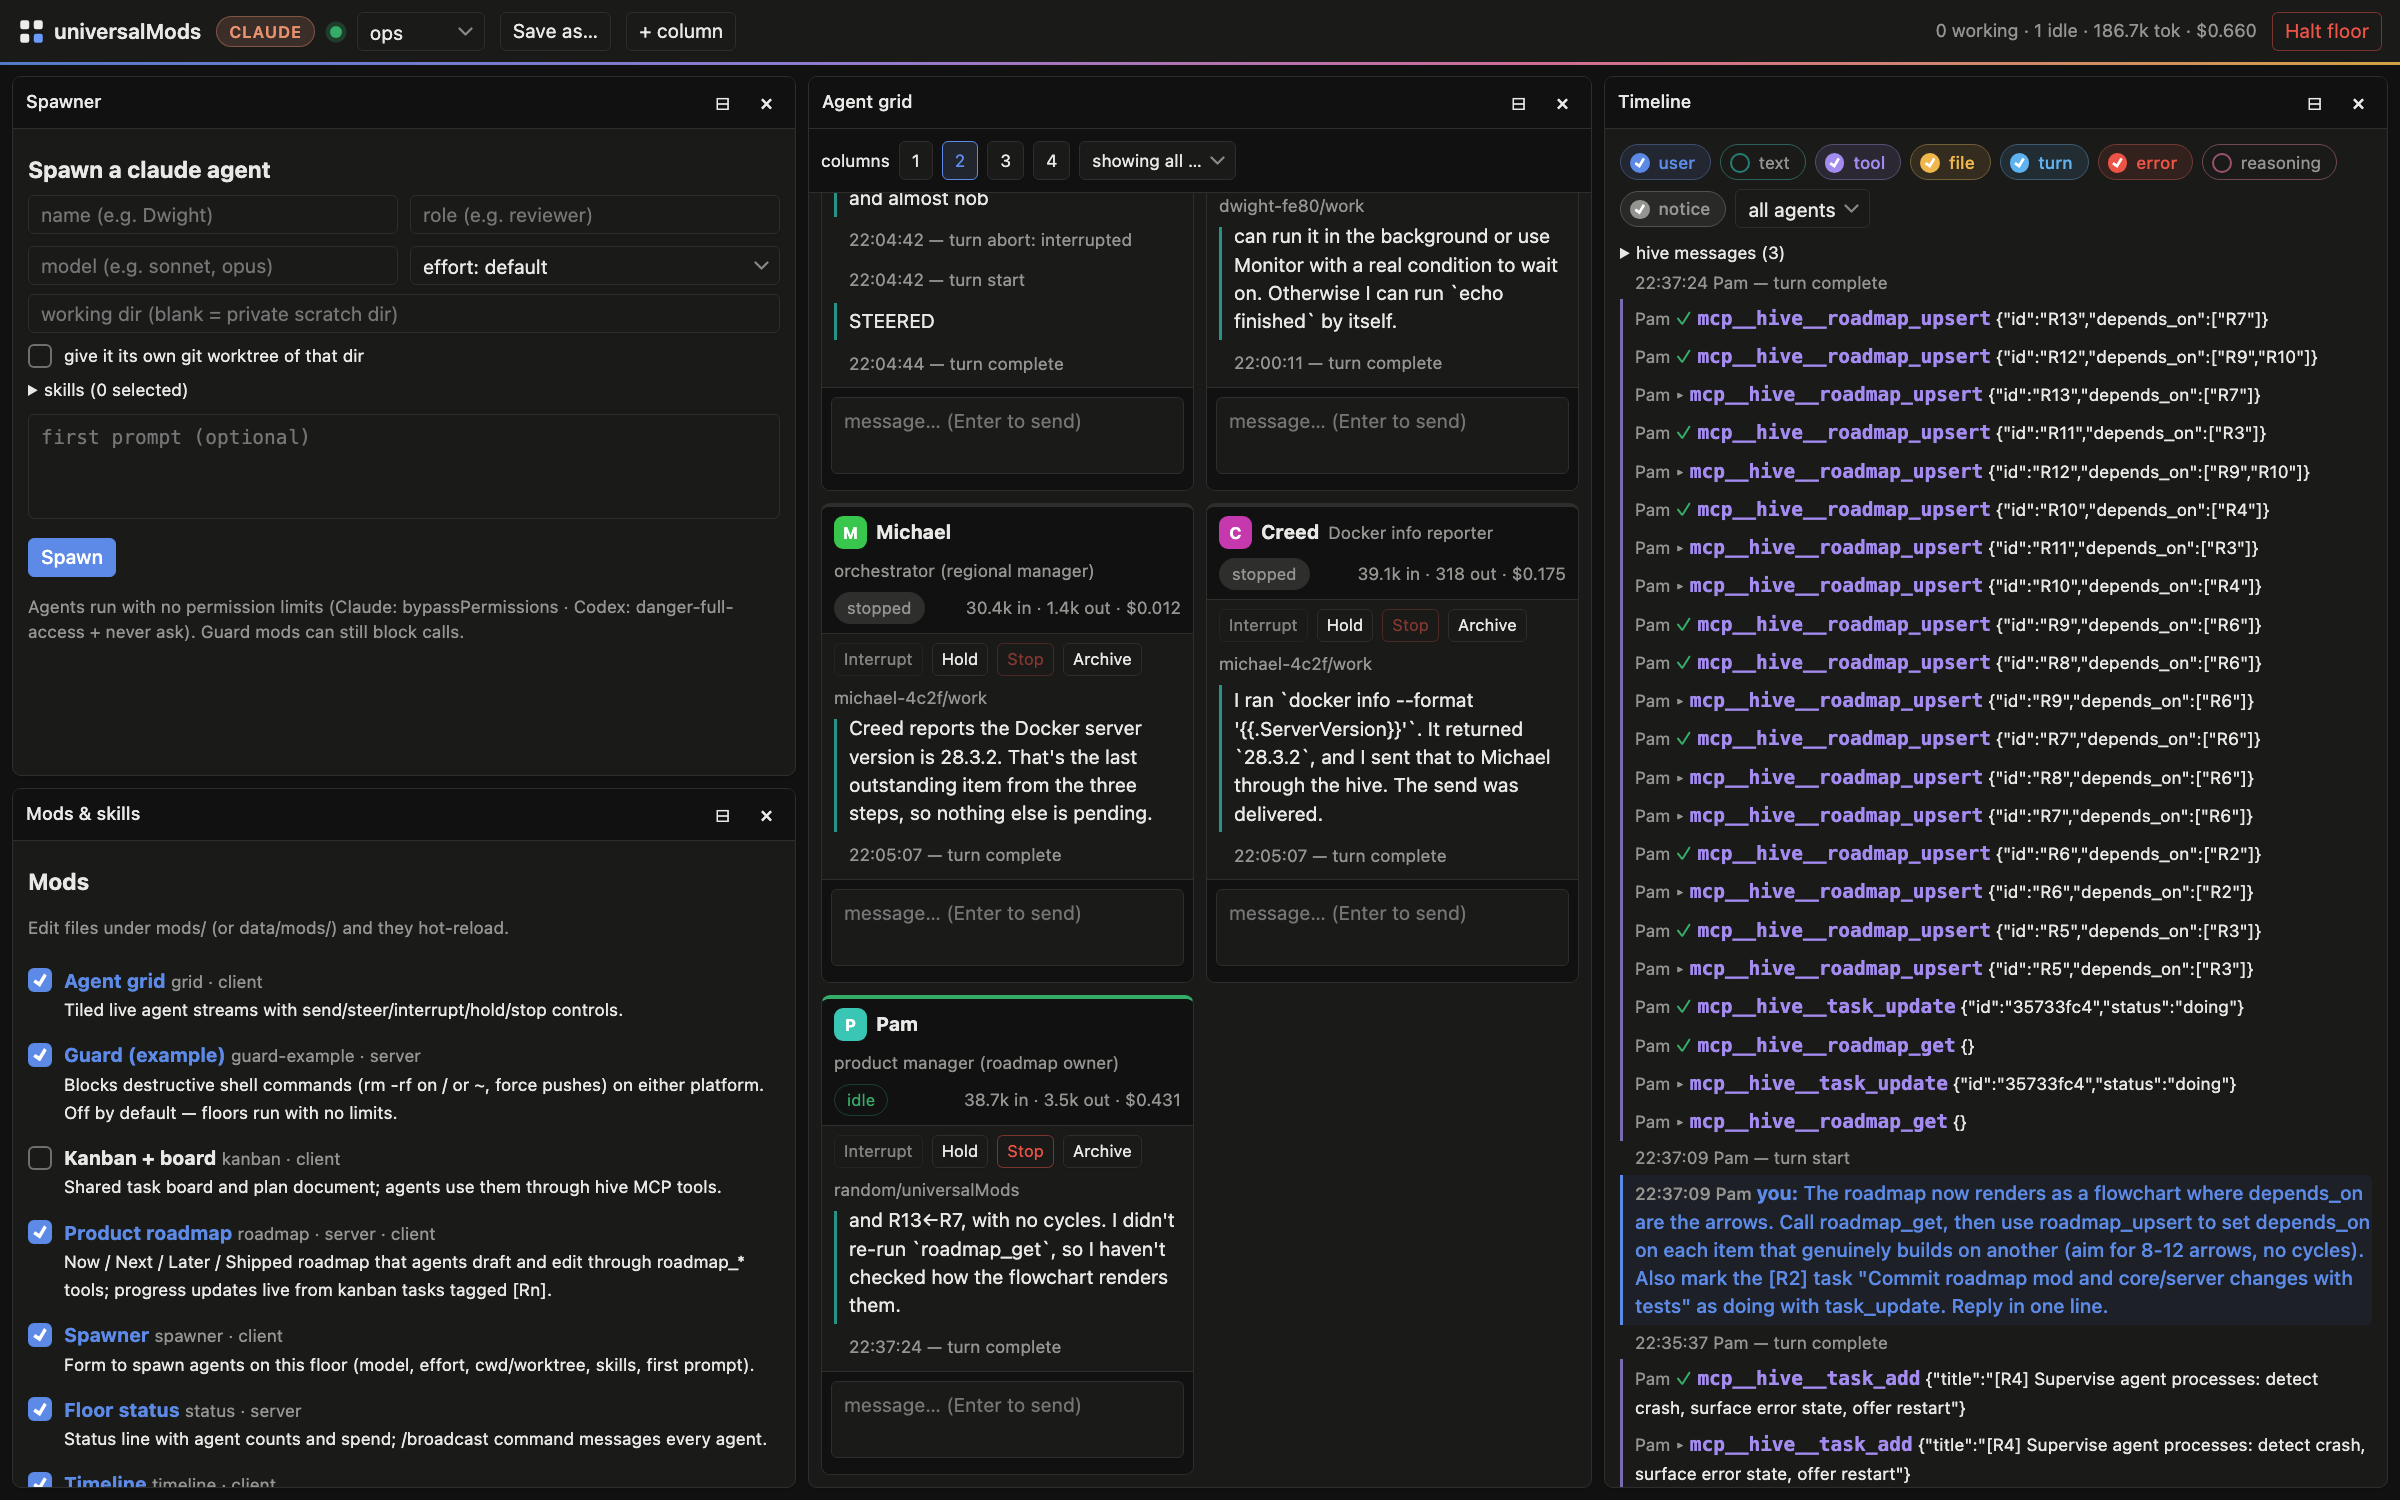
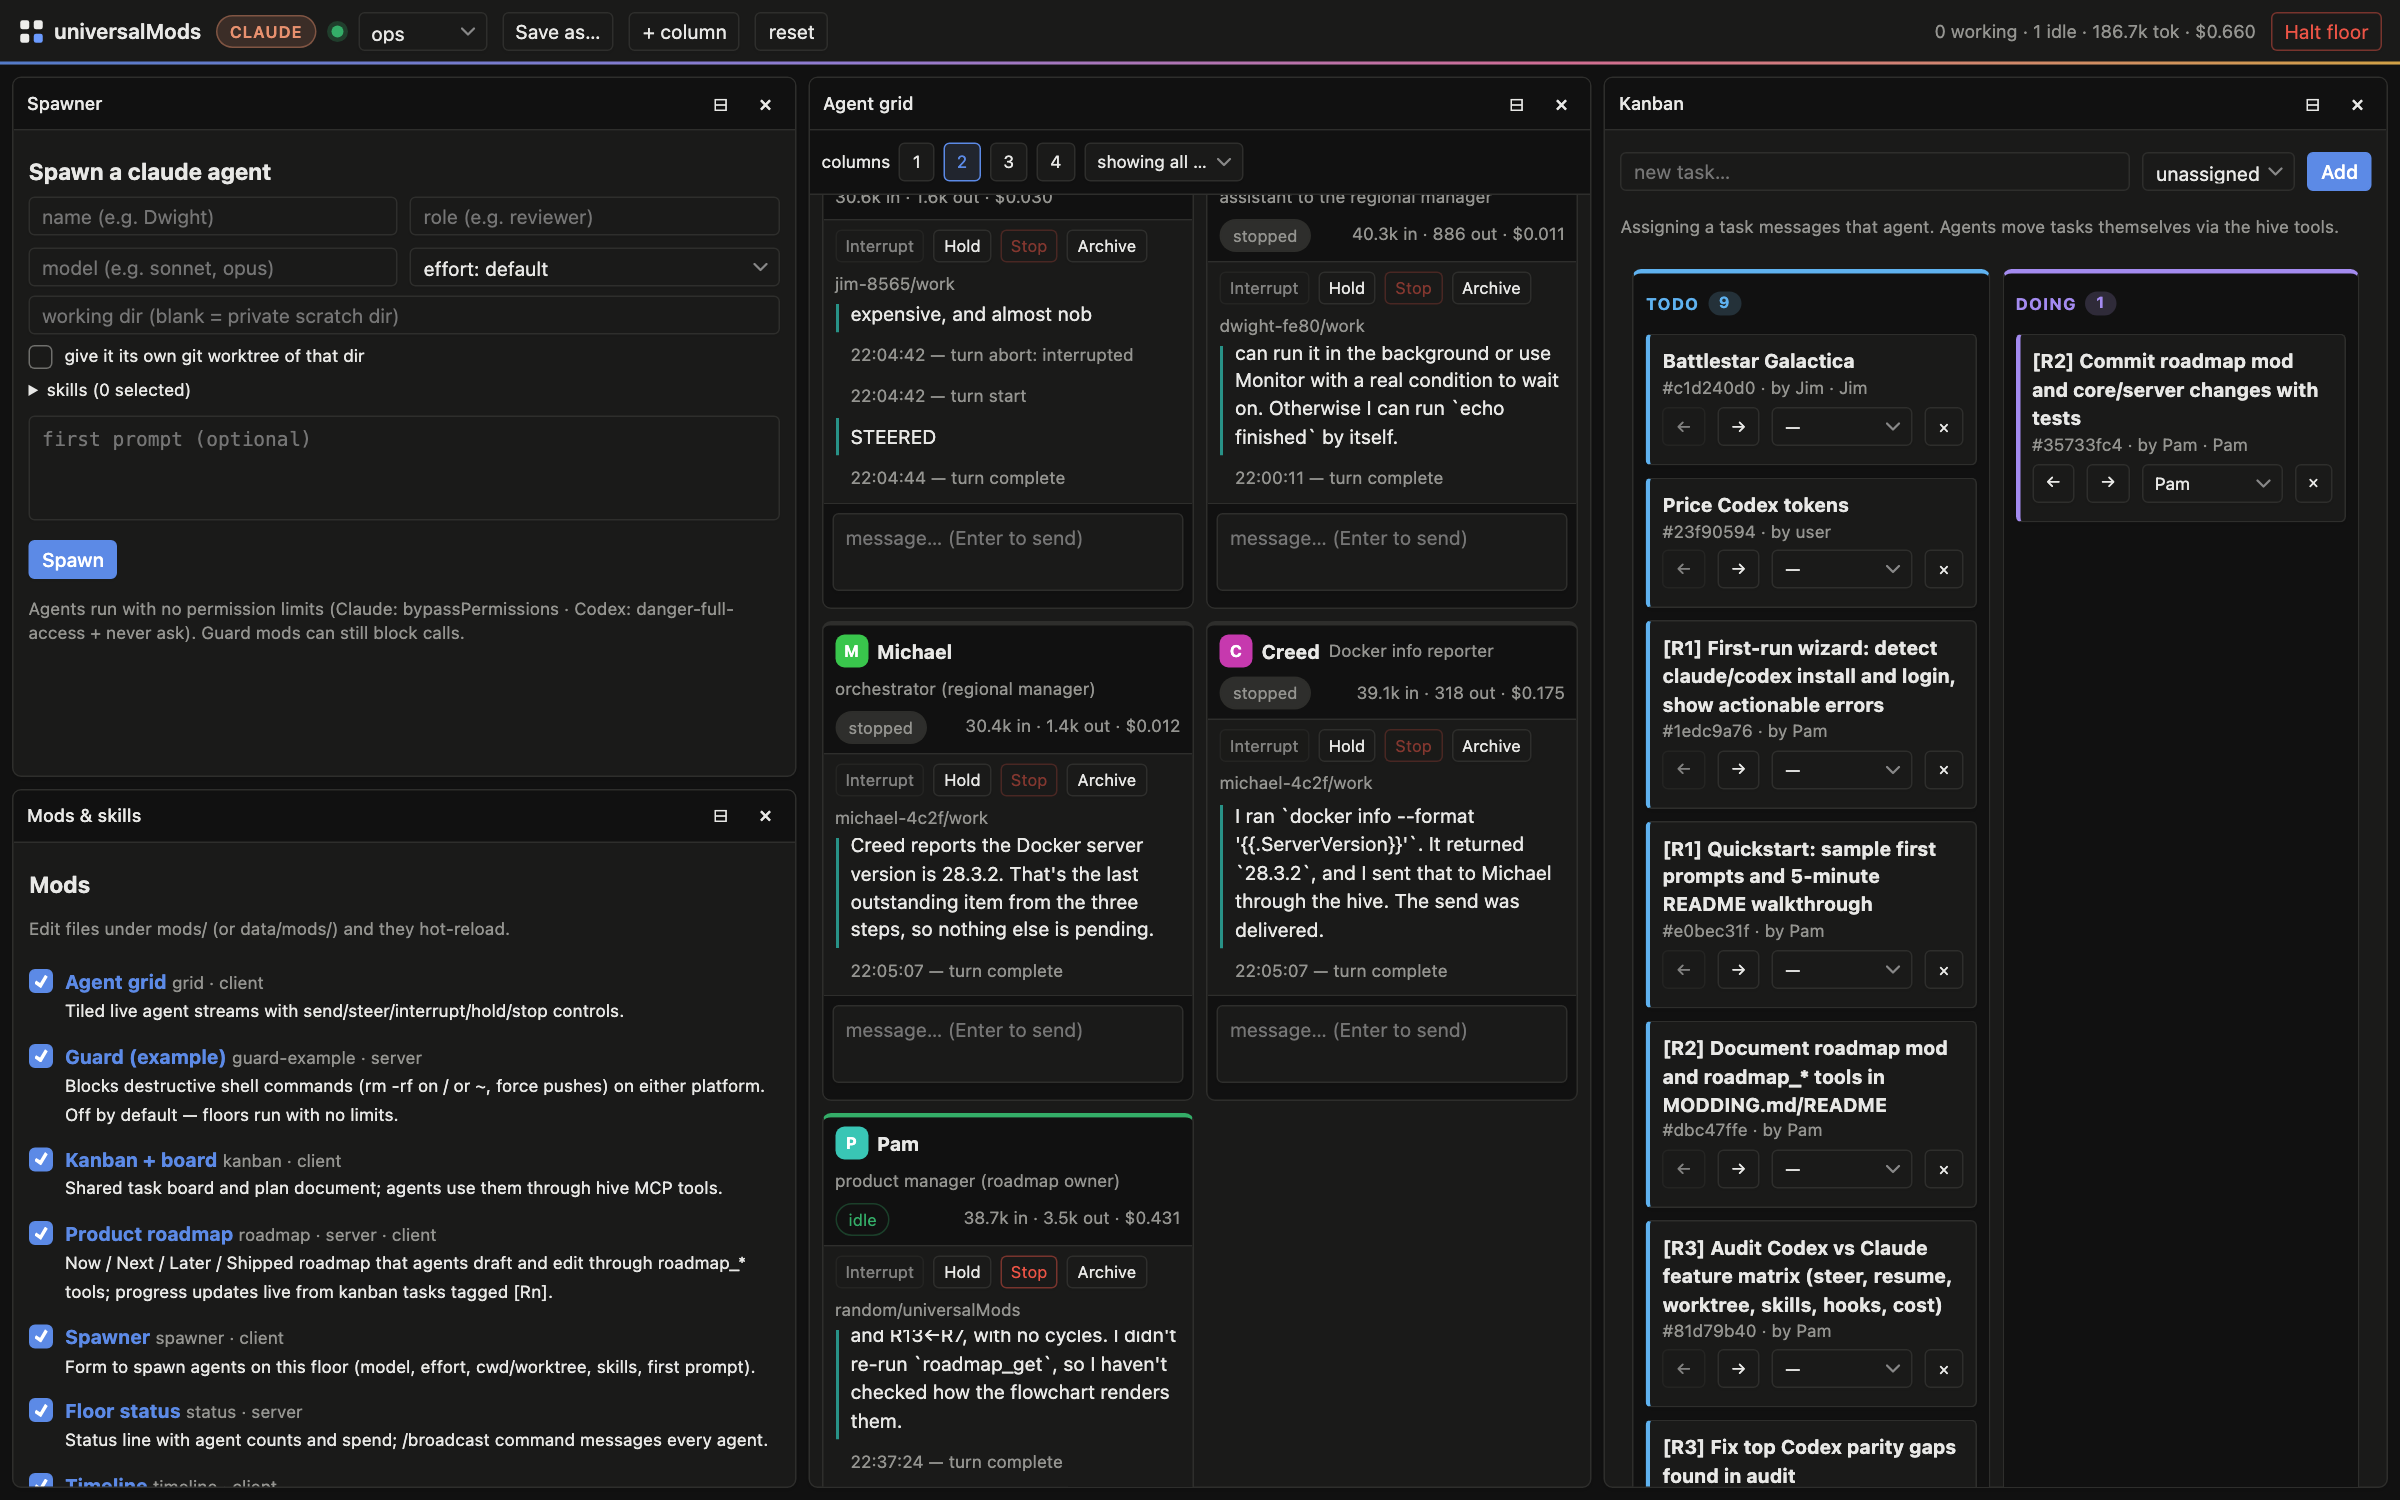
Screenshots: show kanban instead of the timeline; wrap kanban card controls in narrow columns

diff --git a/src/web/styles.css b/src/web/styles.css
@@ -217,3 +217,5 @@ label.row:has(> span) { align-items: flex-start; }
 
 /* setup screen cards per platform */
 .card.claude { border-top: 3px solid var(--claude); } .card.codex { border-top: 3px solid var(--codex); }
+.kanban-card .row { flex-wrap: wrap; }
+.kanban-card .row select { flex: 1; min-width: 0; }
